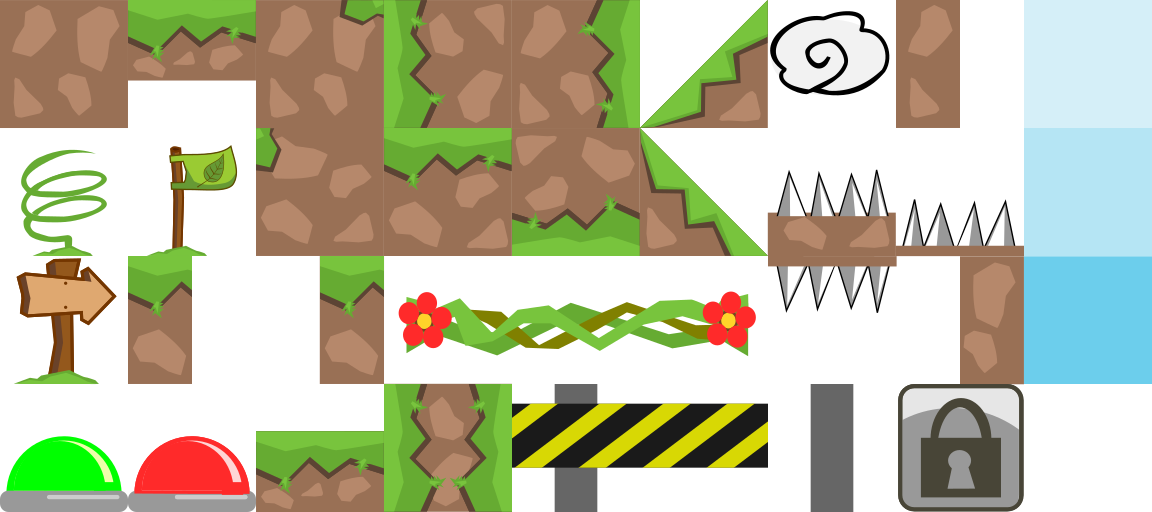
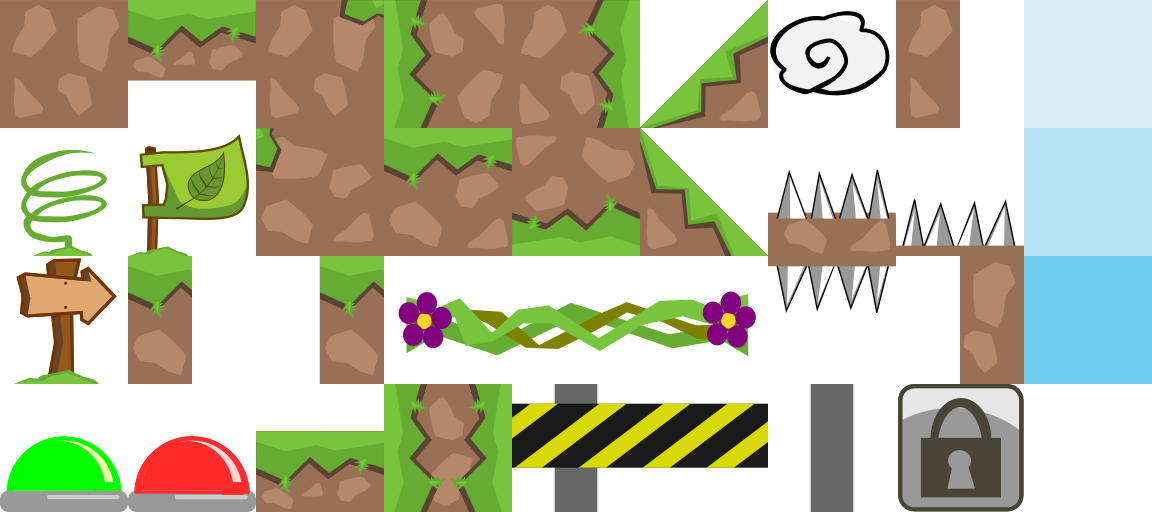
made changes to level design and art

diff --git a/android/assets/levels/tiles_tips_128x128.tsx b/android/assets/levels/tiles_tips_128x128.tsx
@@ -1,0 +1,4 @@
+<?xml version="1.0" encoding="UTF-8"?>
+<tileset name="tiles_tips_128x128" tilewidth="128" tileheight="128" tilecount="12" columns="6">
+ <image source="tiles_tips_128x128.png" width="768" height="256"/>
+</tileset>
